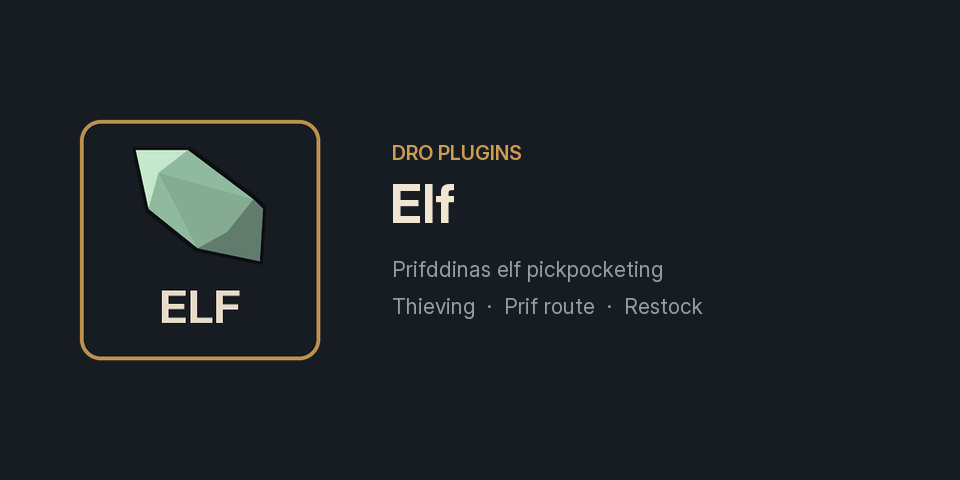
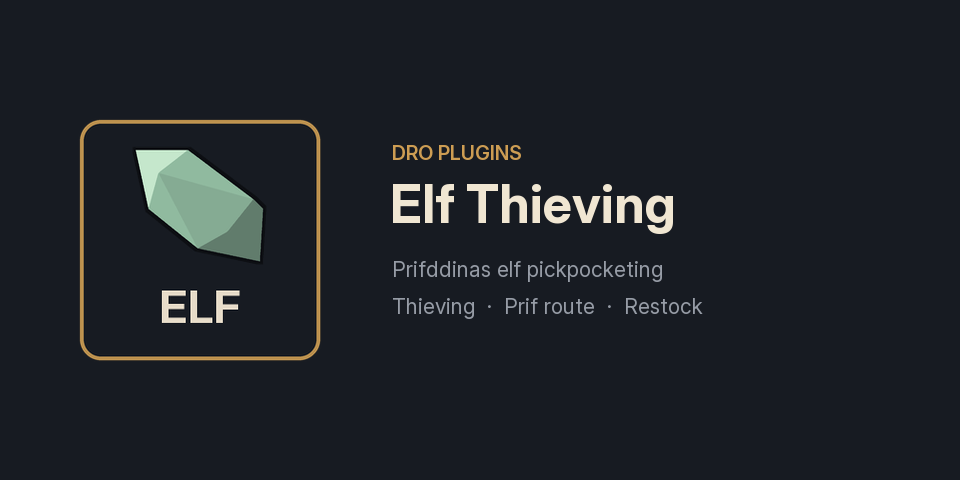
feat(DroElfPlugin): rename to [Dro] Elf Thieving

Changed region(s): [[0.4688, 0.375, 0.7188, 0.5]]

diff --git a/src/main/java/net/runelite/client/plugins/microbot/droelf/DroElfPlugin.java b/src/main/java/net/runelite/client/plugins/microbot/droelf/DroElfPlugin.java
@@ -22,7 +22,7 @@ import java.util.HashMap;
 import java.util.Map;
 
 @PluginDescriptor(
-        name = PluginConstants.DRO + "Elf",
+        name = PluginConstants.DRO + "Elf Thieving",
         description = "Dedicated Prifddinas elf thieving with a session-locked route",
         authors = {"Dro"},
         version = DroElfPlugin.VERSION,

diff --git a/src/main/resources/net/runelite/client/plugins/microbot/droelf/docs/README.md b/src/main/resources/net/runelite/client/plugins/microbot/droelf/docs/README.md
@@ -1,8 +1,8 @@
-# Dro Elf
+# Dro Elf Thieving
 
 Created by **DRO (droplugins)**.
 
-Dro Elf pickpockets elves in Prifddinas. On start it locks onto the nearest elf and the nearest bank, then walks between them with its own built-in Prifddinas route planner. It eats, opens coin pouches, keeps a Dodgy necklace on, and restocks food and necklaces at the bank.
+Dro Elf Thieving pickpockets elves in Prifddinas. On start it locks onto the nearest elf and the nearest bank, then walks between them with its own built-in Prifddinas route planner. It eats, opens coin pouches, keeps a Dodgy necklace on, and restocks food and necklaces at the bank.
 
 ## Requirements
 
@@ -16,7 +16,7 @@ Dro Elf pickpockets elves in Prifddinas. On start it locks onto the nearest elf 
 1. Stand next to the elf you want to thieve in Prifddinas.
 2. Set food, food amount, eat-below HP % and Dodgy necklace amount under **Consumables**.
 3. Optional: turn on **Shadow Veil**, adjust **Adaptive behavior**, and set up **Break manager**.
-4. Enable **[Dro] Elf**.
+4. Enable **[Dro] Elf Thieving**.
 
 ## Walking
 
